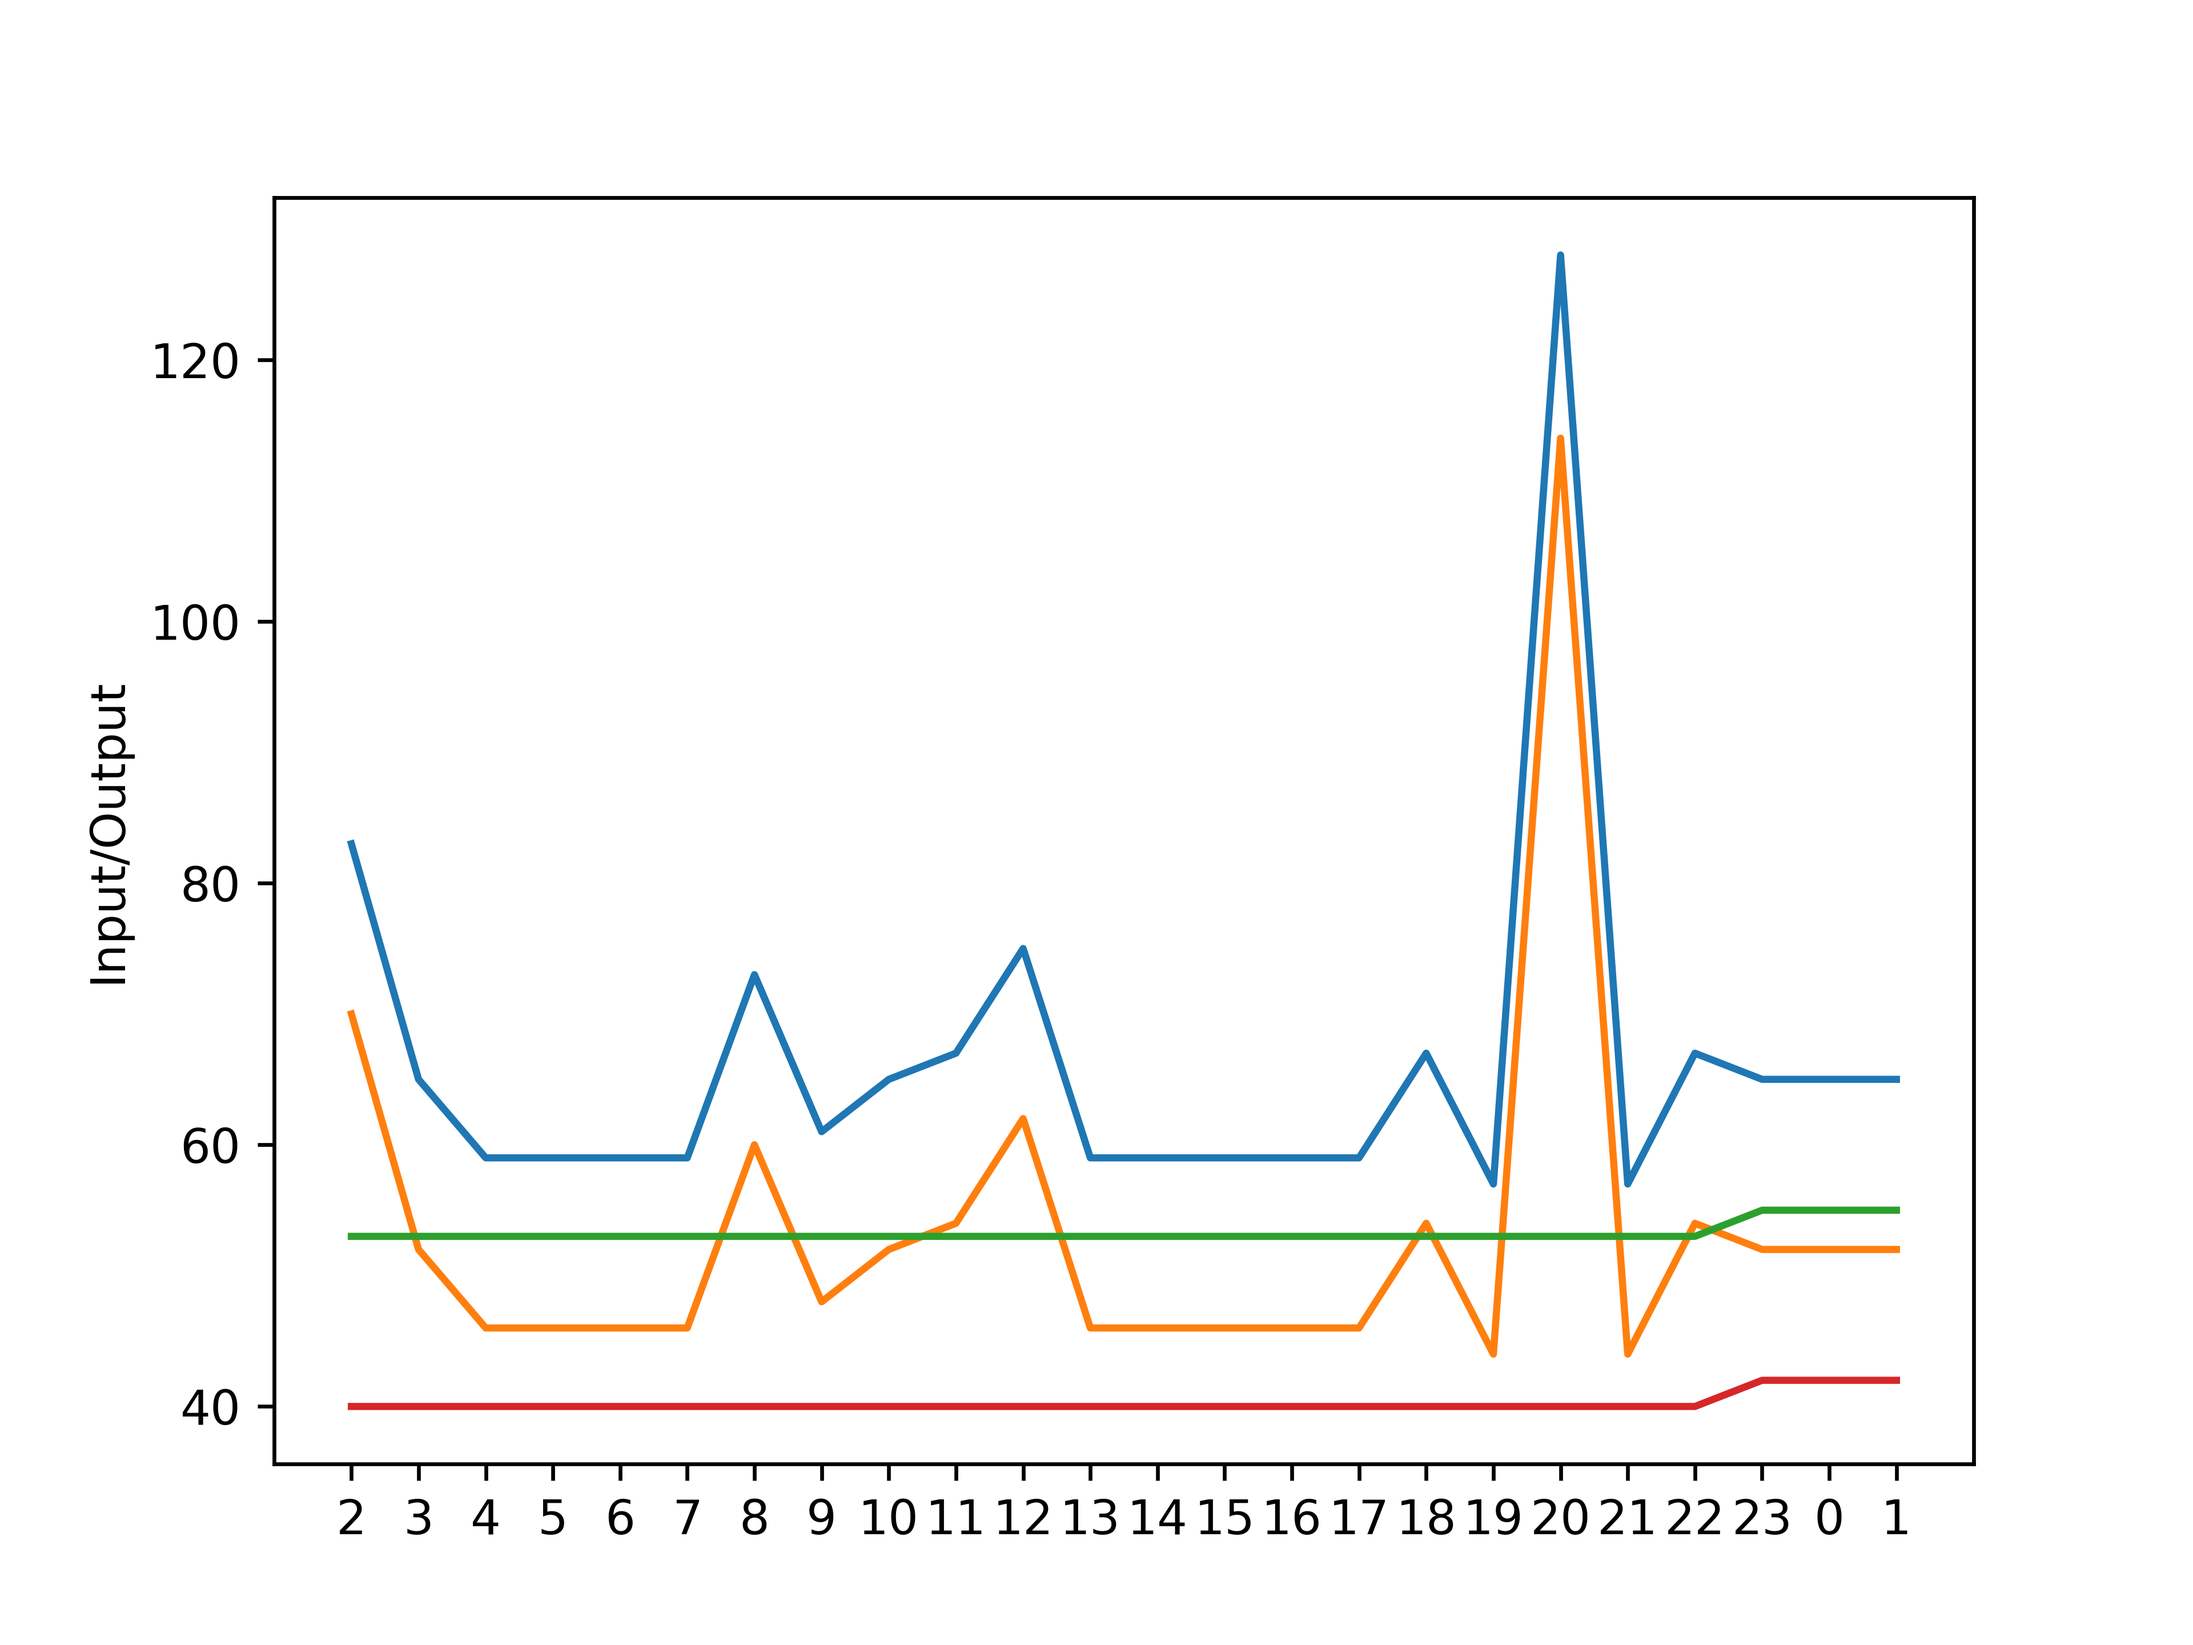
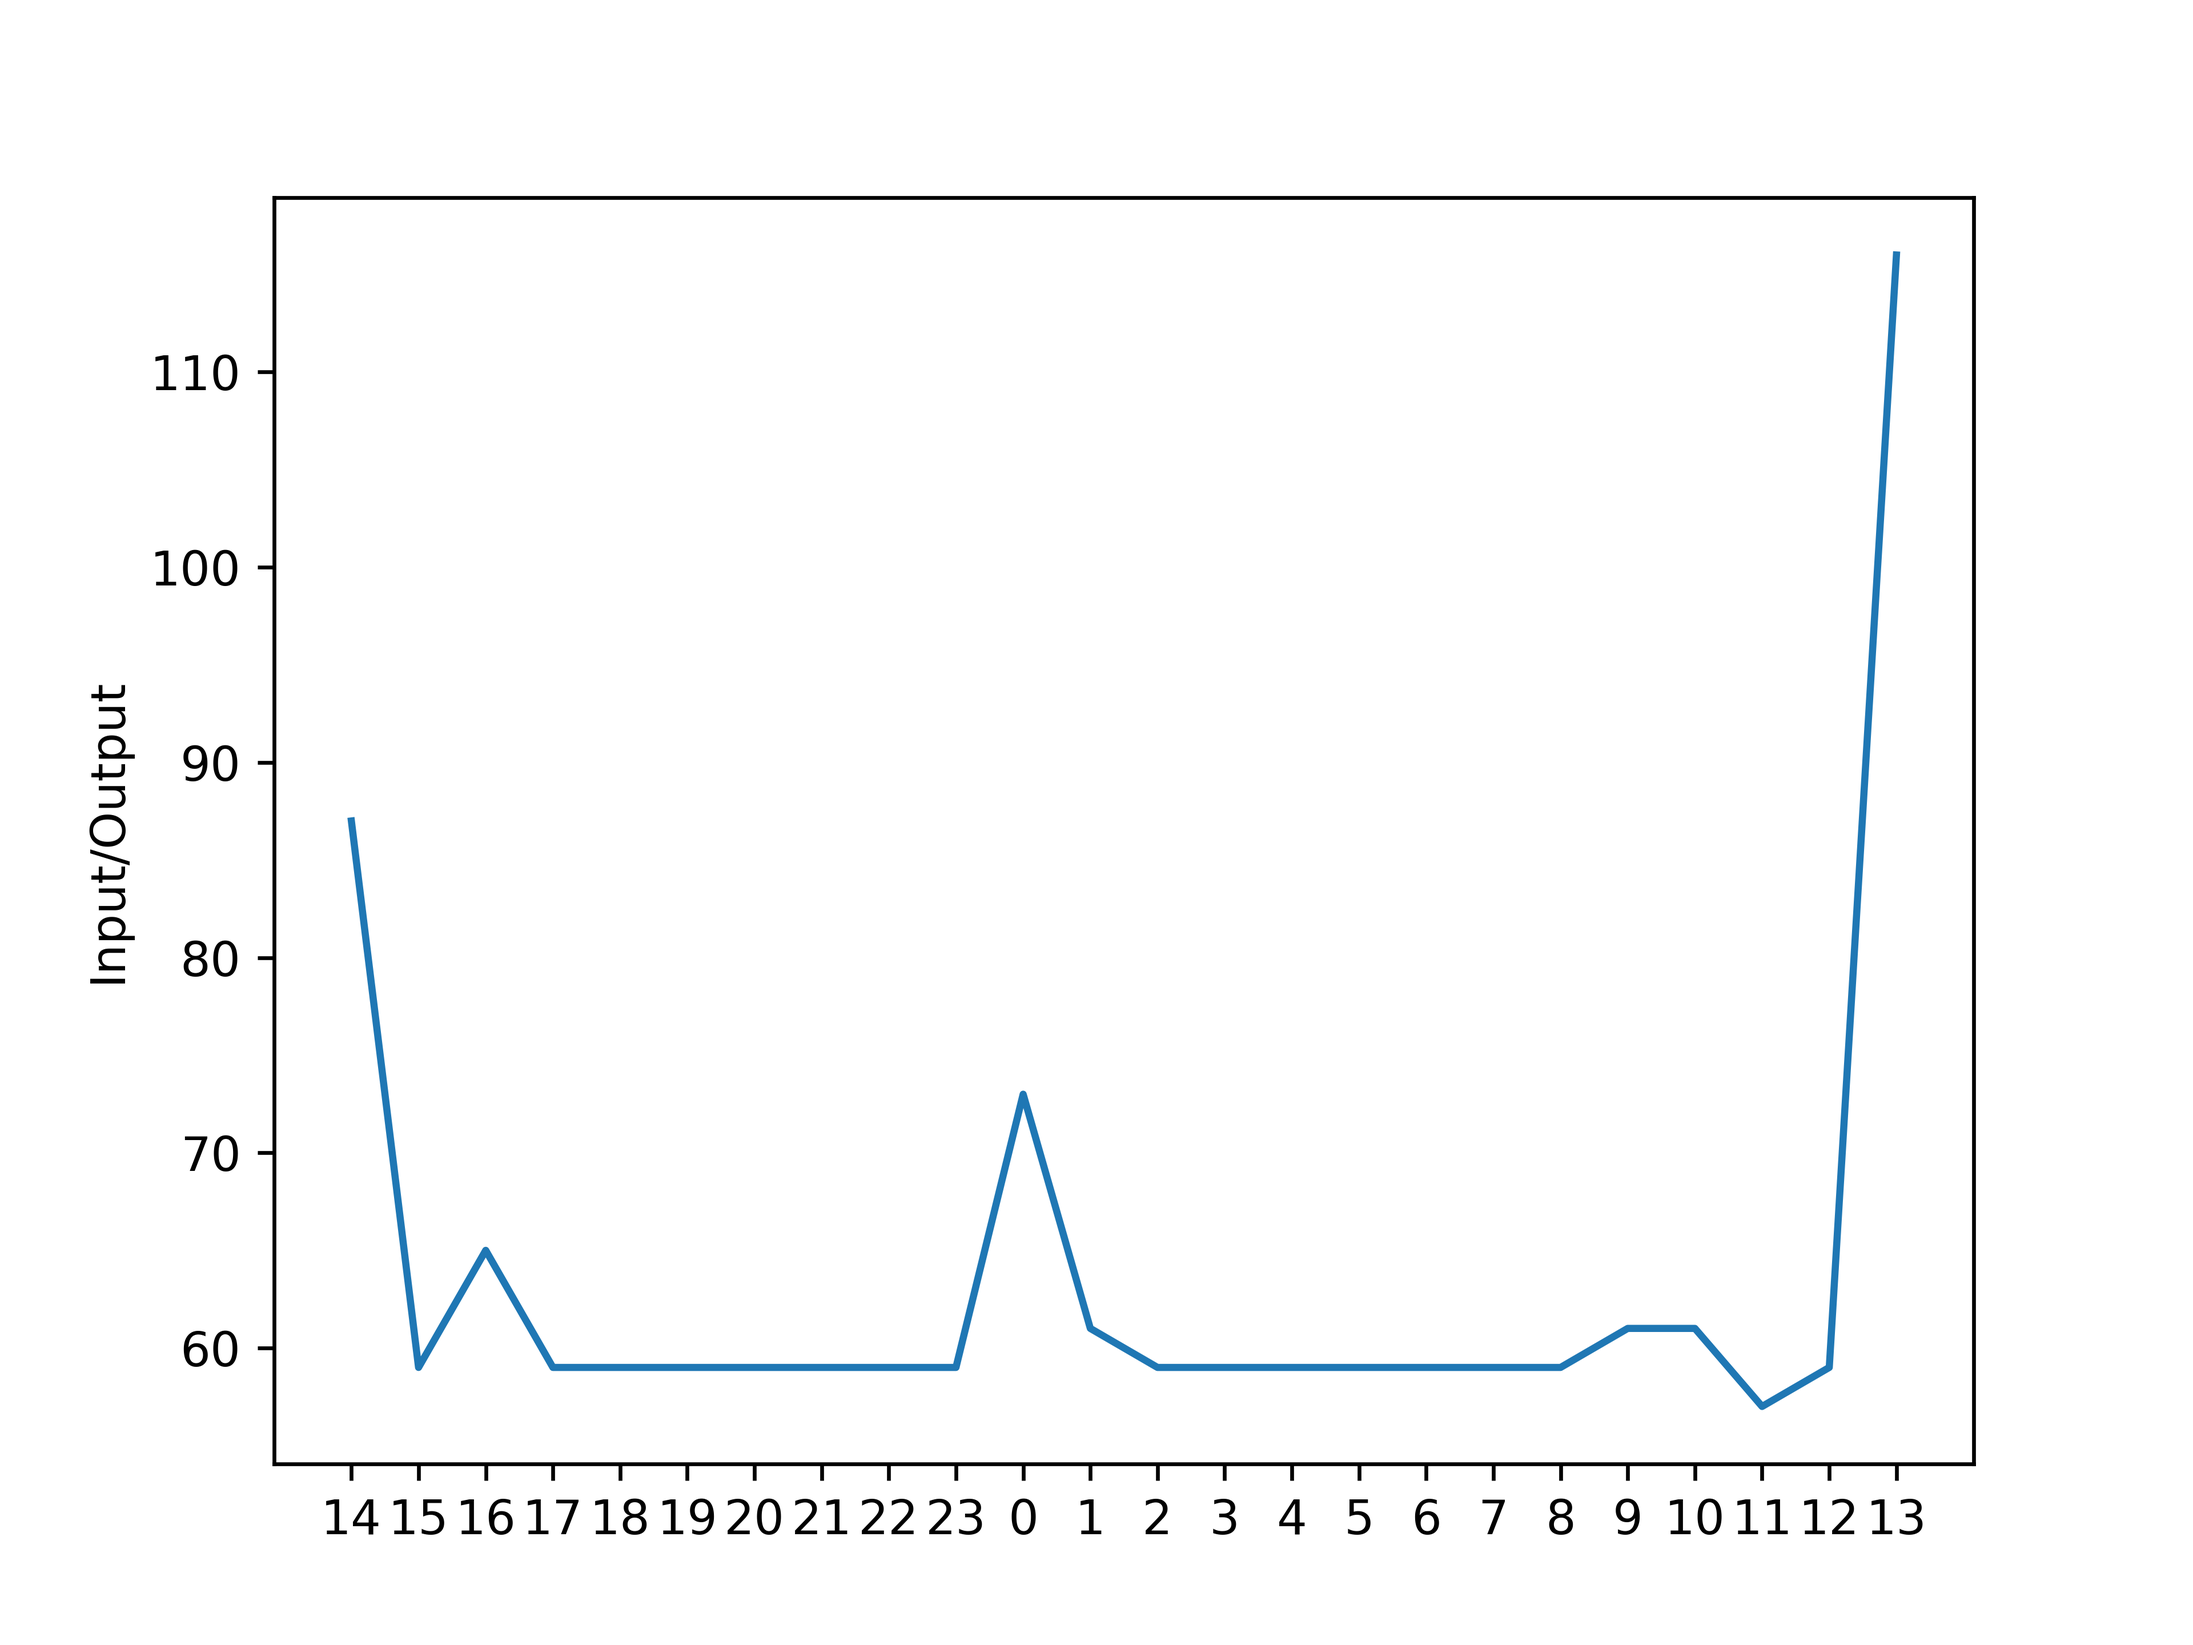
Do only effectuve power consumption at the wall

diff --git a/show.py b/show.py
@@ -35,8 +35,8 @@ with connection:
         result = [[str(row['hour']) for row in result], [row['max_input'] for row in result], [row['max_output'] for row in result], [row['min_input'] for row in result], [row['min_output'] for row in result]]
 
         plt.plot(result[0], result[1])
-        plt.plot(result[0], result[2])
-        plt.plot(result[0], result[3])
-        plt.plot(result[0], result[4])
+        # plt.plot(result[0], result[2])
+        # plt.plot(result[0], result[3])
+        # plt.plot(result[0], result[4])
         plt.ylabel('Input/Output')
         plt.savefig('input_output.png', dpi=600)
